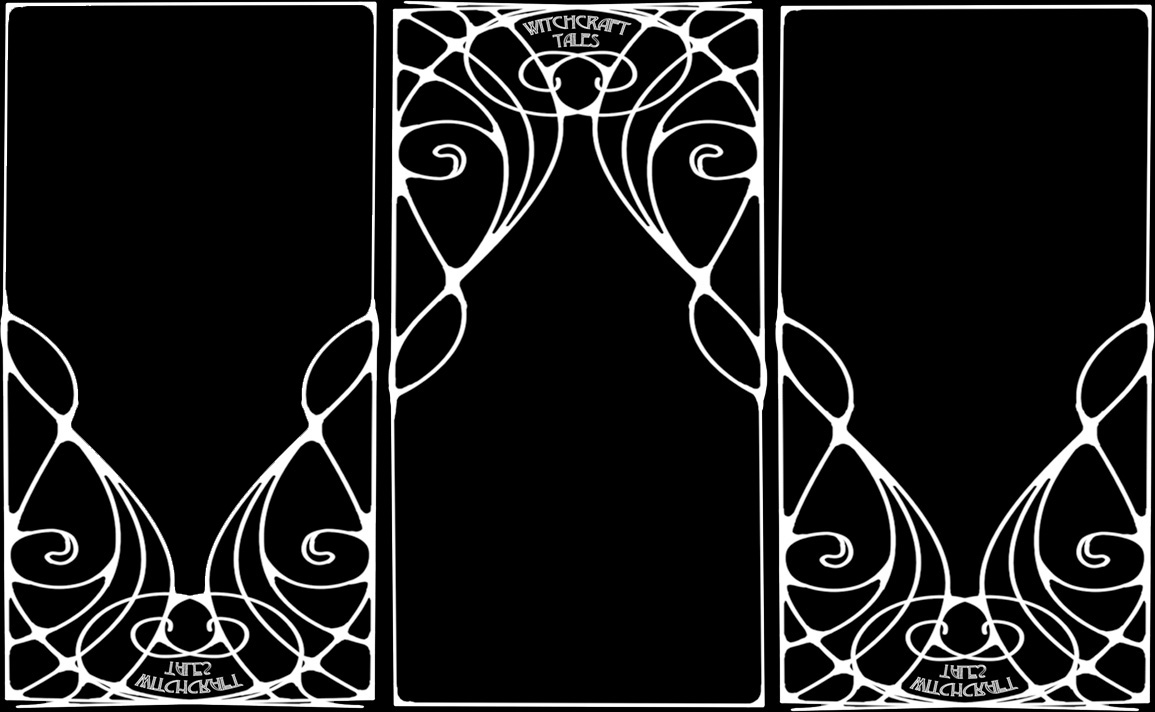
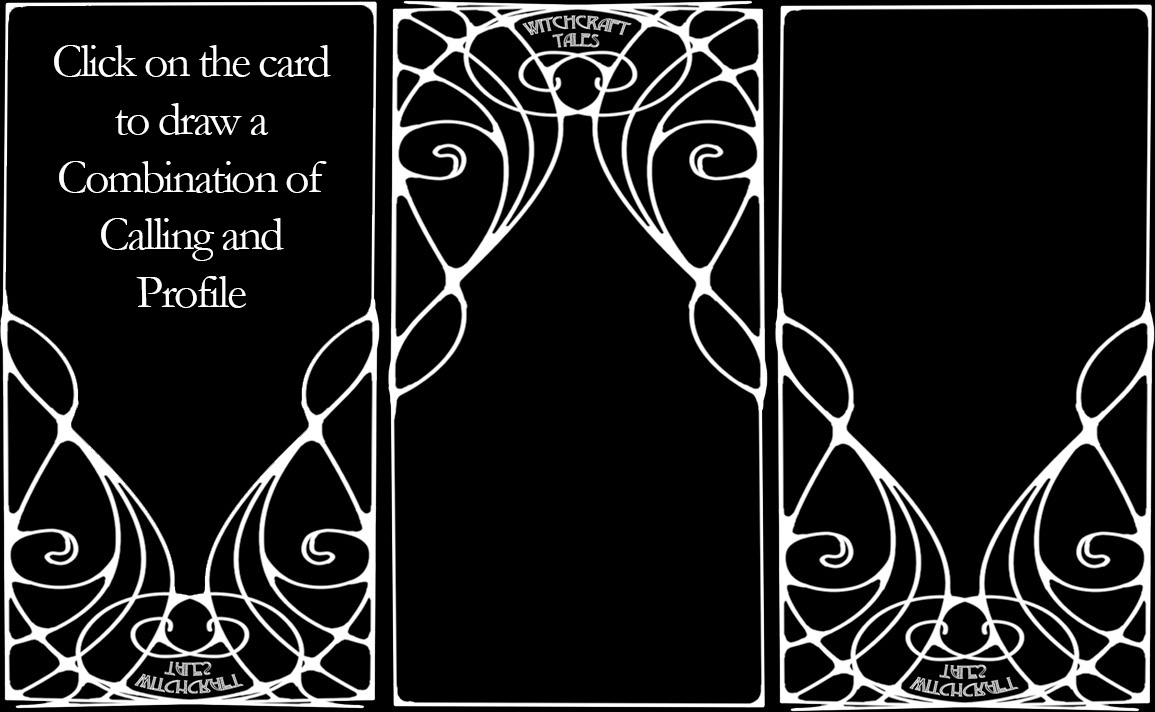
Add files via upload

diff --git a/callings/index.html b/callings/index.html
@@ -13,10 +13,7 @@
         <div class="container align-items-center pt-5 pb-3">
             <div class="row pt-3">
                 <div class="col-4">
-                    <div class="card text-center align-items-center text-white">
-                        Click on the card to draw a Combination of Calling and Profile
                     </div>
-                </div>
                     <div class="col-4">
                         <div class="card controls align-items-center">
                             <img id="callings" class="img-fluid" src="cards/card.png" alt="card image">
